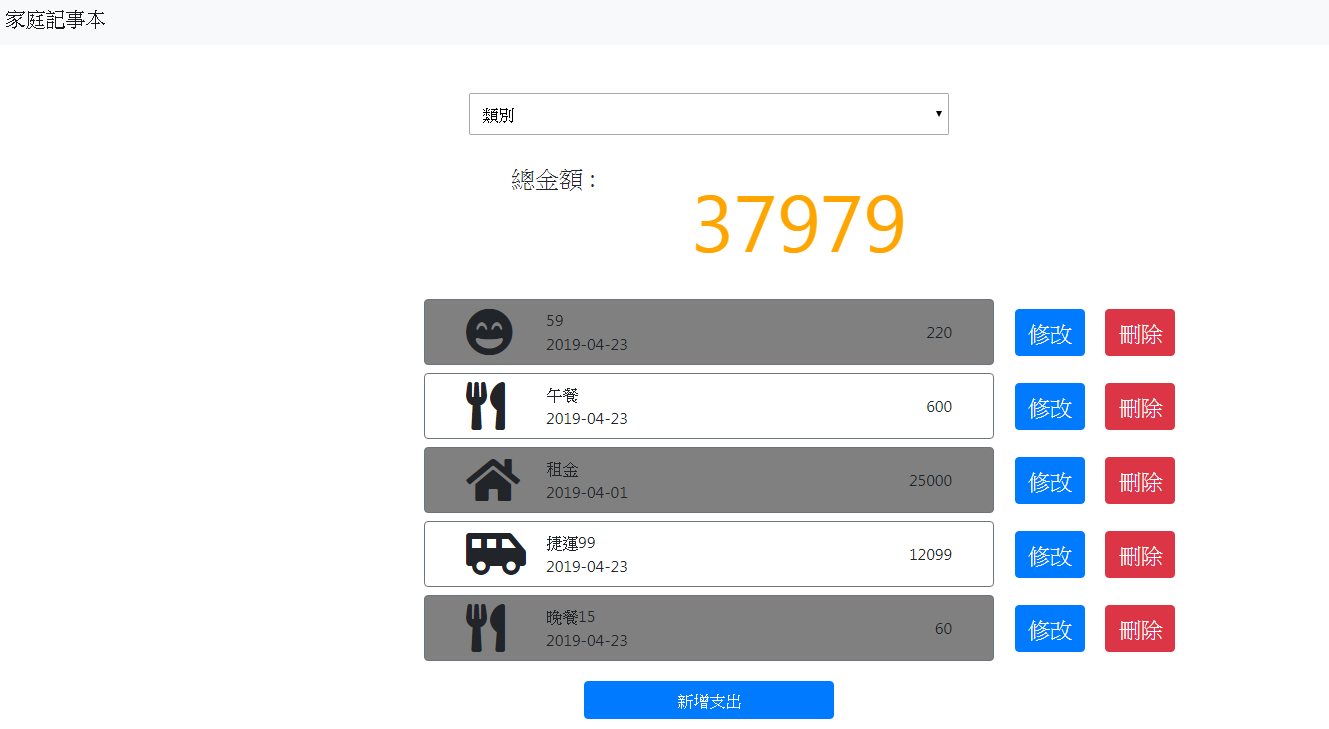
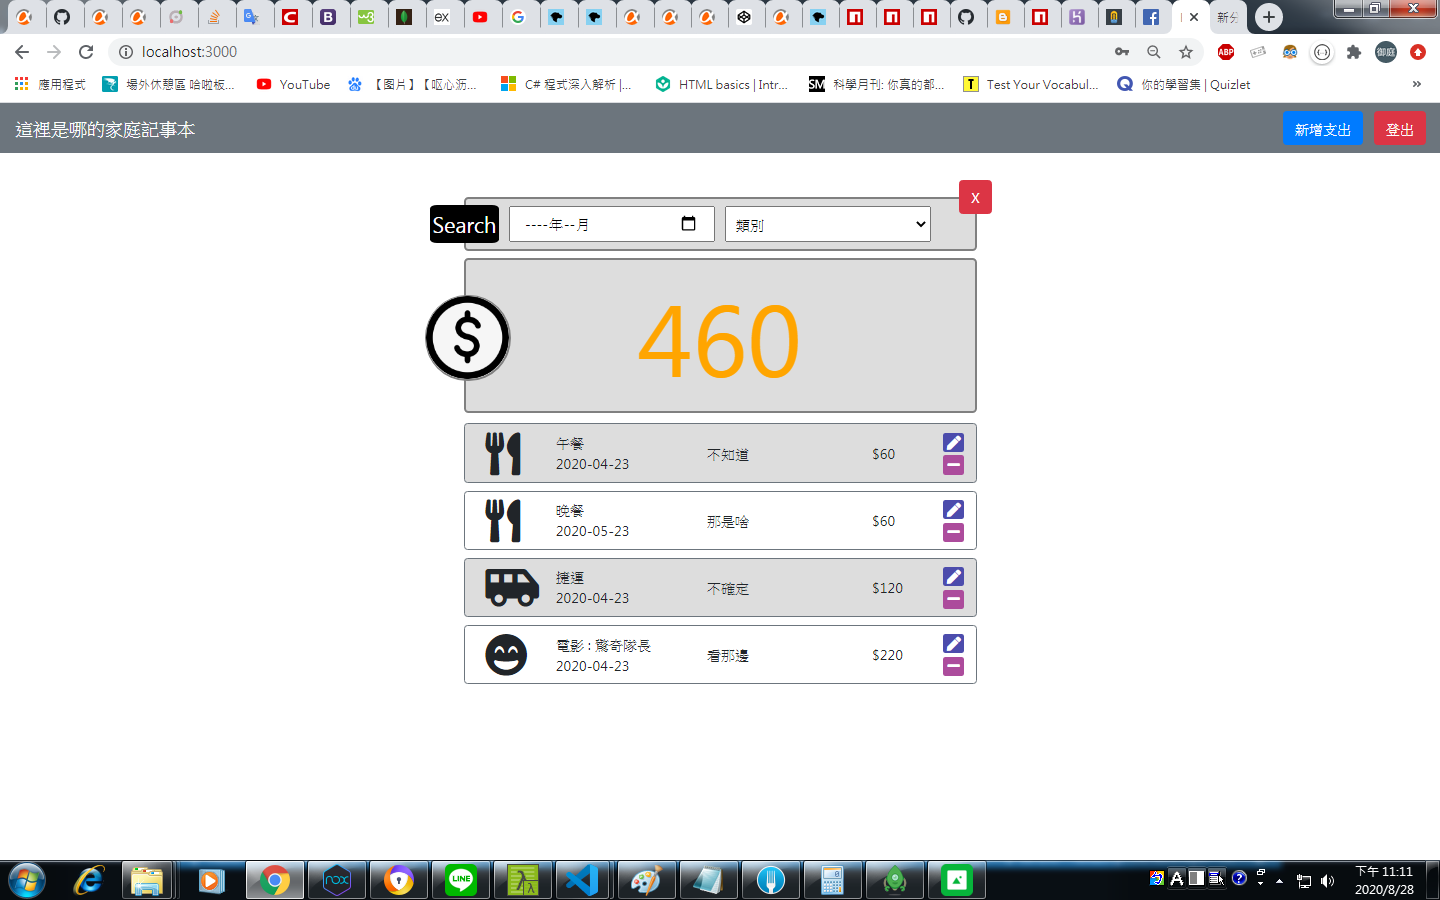
feat: modify readme / home.png / seeder data

diff --git a/README.md b/README.md
@@ -1,28 +1,14 @@
 # 家庭支出記事本
-### 可以把過去的花費紀錄上去，容易統計目前支出的項目與金額總合。
-### 網站是由node.js與express共同打造的，並使用mongoose作資料操作。
+### 使用者可以創建個人的帳戶，記錄不同時期的花費，也可以針對不同類型與日期做篩選，並自動計算總共的花費，當輸入錯誤或過時的訊息也可以修改或刪除。
 
 ---
 ![image](https://github.com/CoreyHuang/expense-tracker/blob/master/home.png)
-### Features(功能描述):
-+ 使用者可以瀏覽所有金額與花費項目。
-+ 使用者可以篩選想要統計項目的總金額。
-+ 使用者可以編輯現有項目的相關資訊。
-+ 使用者可以刪除已經過時或錯誤的項目。
-+ 使用者可以建立新的花費項目。
 
 ### installation and execution(安裝與執行步驟):
 #### `<安裝步驟>`
 #### 1. 安裝git
-```
-https://git-scm.com/download/win
-```
-#### 2. 安裝nvm
-```
-Enter https://github.com/coreybutler/nvm-windows/releases
-Click nvm-setup.zip to install
-```
-#### 3. 安裝node.js與使用指定版本
+#### 2. 安裝nvm (node管控工具)
+#### 3. 安裝node.js與設定版本
 ```
 nvm install 10.15.0
 nvm use 10.15.0
@@ -41,18 +27,28 @@ git clone https://github.com/CoreyHuang/expense-tracker.git
 ```
 npm install
 ```
-#### 3. 載入種子資料
+#### 3. 環境變數設定
+```
+cp .env.example .env
+```
+#### 4. 載入種子資料(mongodb)
 ```
 npm run seed
 ```
-#### 4. 開啟本地伺服(專案資料夾中)
+#### 5. 開啟本地伺服(專案資料夾中)
 ```
 nodemon app.js or npm run dev
 ```
-#### 5. 執行
+#### 6. 執行
 ```
 URL: http://localhost:3000/
 ```
+
+### Test Account
+|Account|Password|
+|:-----:|:------:|
+|test@example.com|123|
+
 
 ### Prerequisites(環境建置與需求):
 #### `<安裝需求>` : 版本為記錄用，並非必須
@@ -67,4 +63,10 @@ URL: http://localhost:3000/
  3. mongoose : v5.9.25
  4. body-parser : v1.19.0
  5. method-override : v3.0.0
-  
+ 6. bcryptjs : v2.4.3
+ 7. connect-flash : v0.1.1
+ 8. dotenv : v8.2.0
+ 9. express-session : v1.17.1
+ 10. passport : v0.4.1
+ 11. passport-facebook : v3.0.0
+ 12. passport-local : v1.0.0
